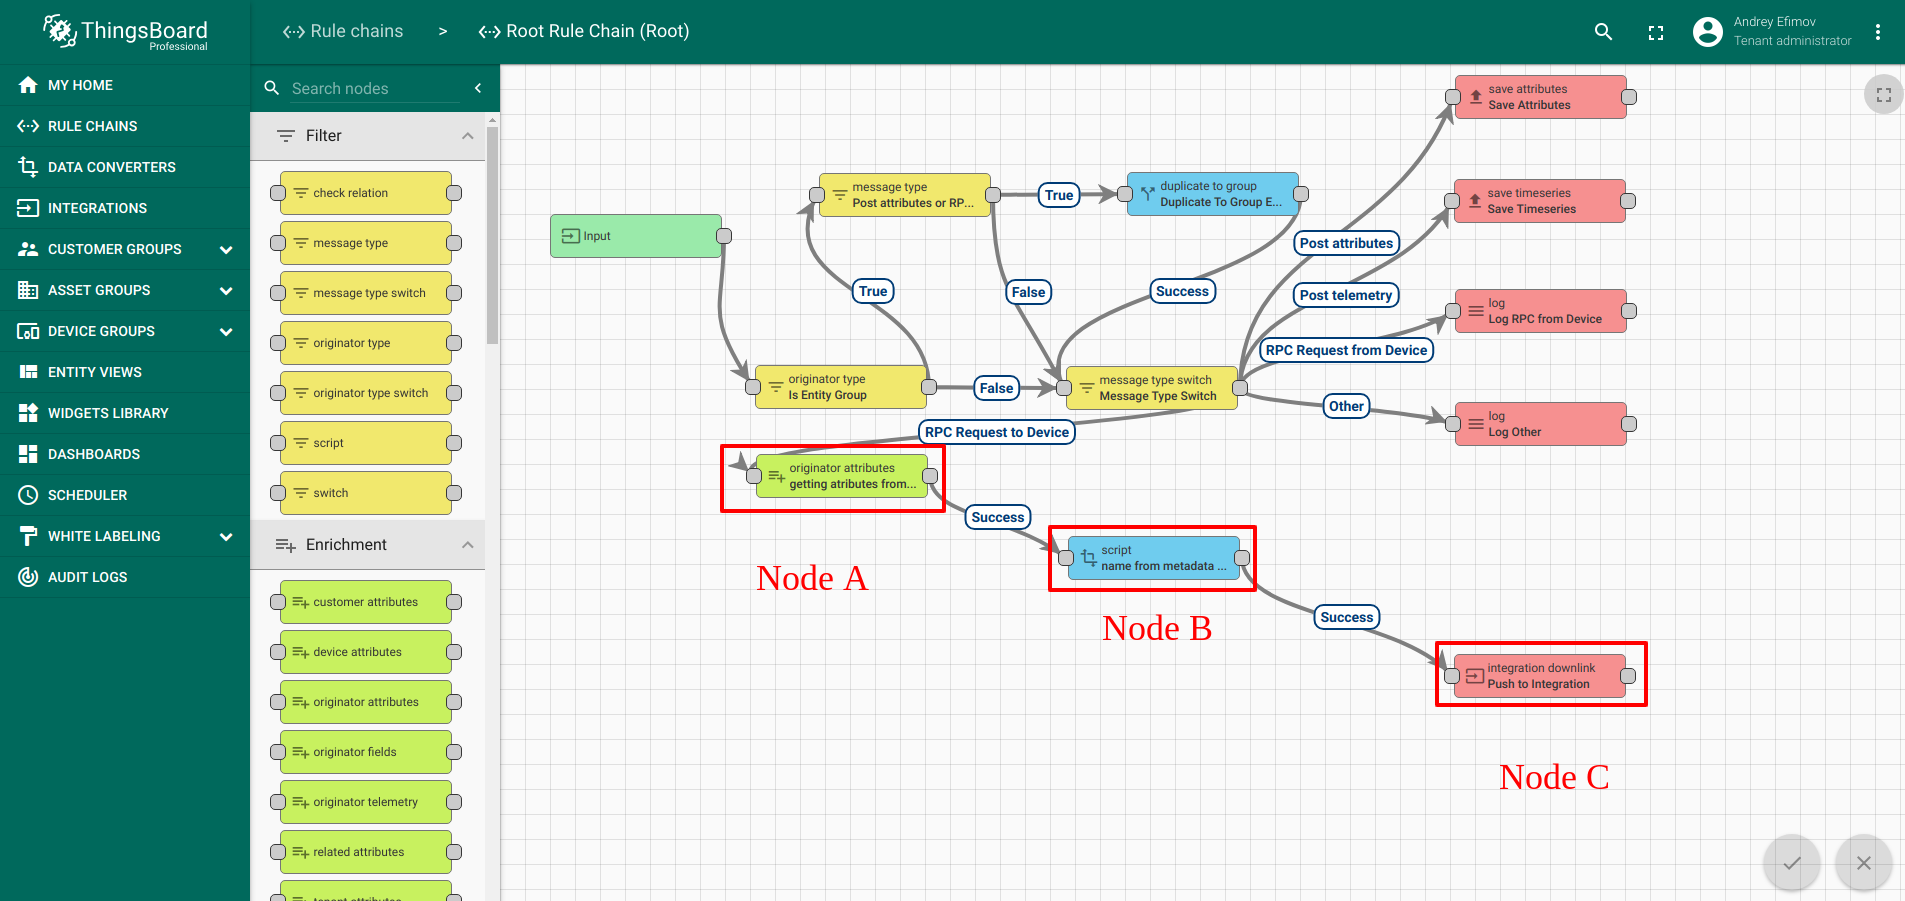
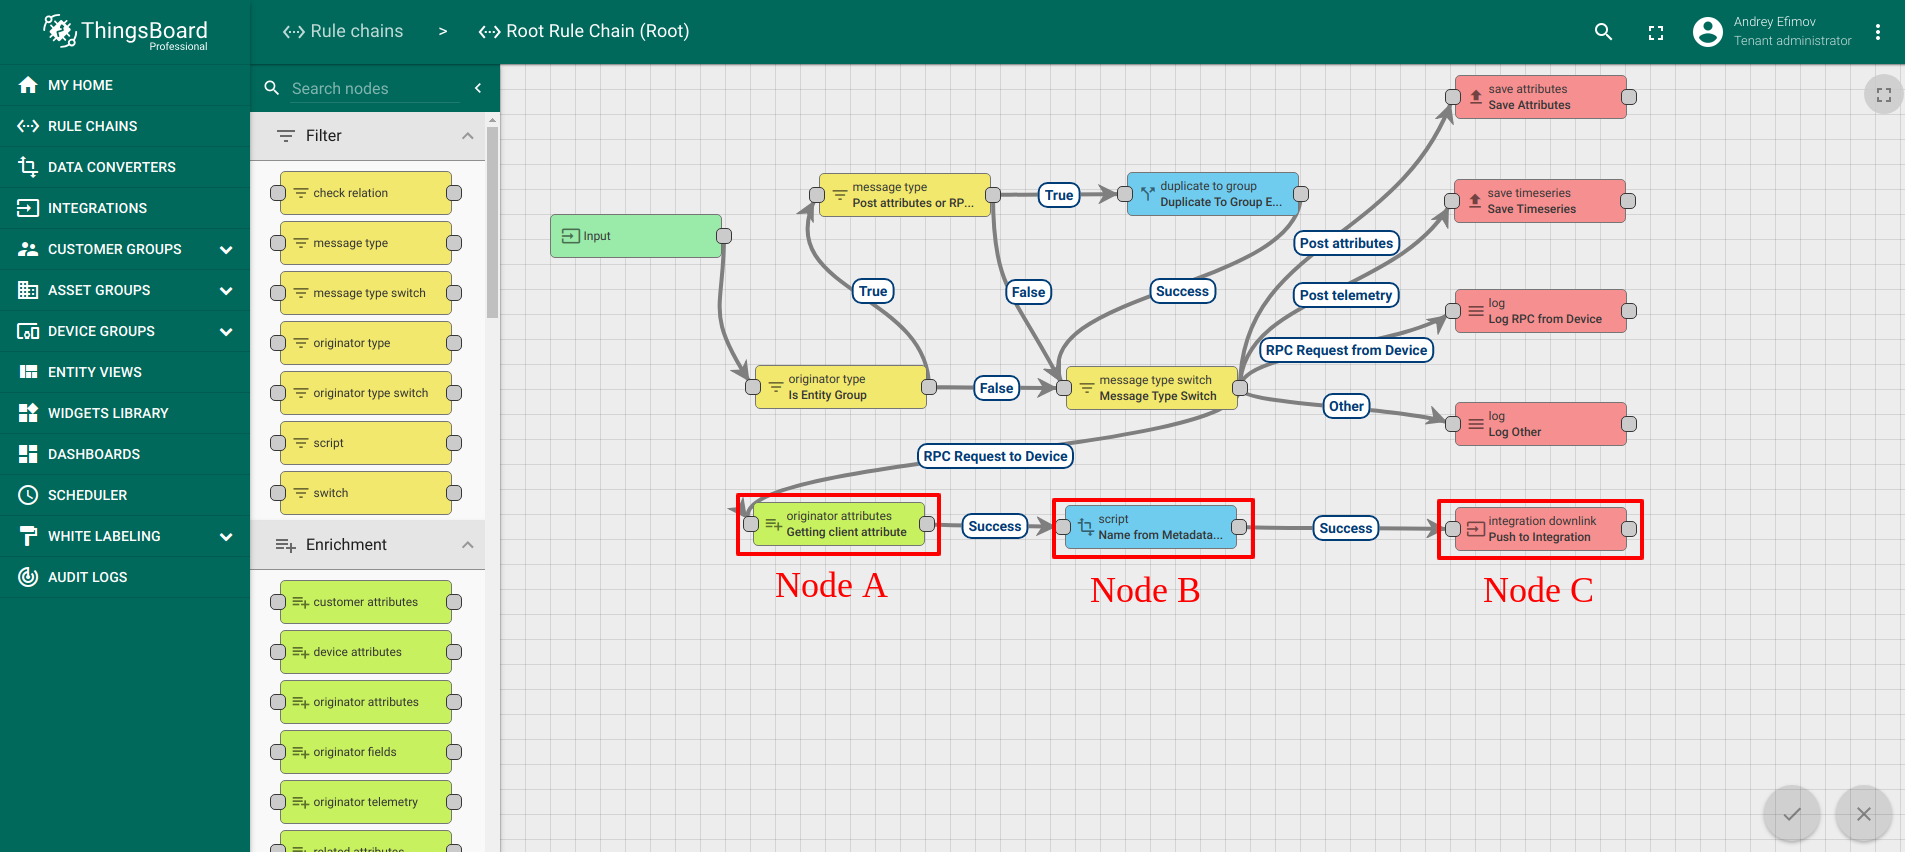
fixed alias and attribute

diff --git a/docs/user-guide/integrations/send-data-external-mqtt-brokers.md b/docs/user-guide/integrations/send-data-external-mqtt-brokers.md
@@ -57,14 +57,14 @@ Uplink converter should look like this:
 
 ![image](/images/user-guide/rule-engine-2-0/tutorials/mqtt-downlink/mqtt-downlink-uplink-converter.png) 
 
-The full source code of javascript function used in converter is available
+The full source code of JSON converter used in converter is available
  [**here**](/docs/user-guide/resources/mqtt-downlink-uplink-converter.js). 
 
 Downlink converter should look like this:
 
 ![image](/images/user-guide/rule-engine-2-0/tutorials/mqtt-downlink/mqtt-downlink-downlink-converter.png)
 
-The full source code of javascript function used in converter is available
+The full source code of JSON converter used in converter is available
  [**here**](/docs/user-guide/resources/mqtt-downlink-downlink-converter.js).
 
 ### Creating integration
@@ -77,8 +77,8 @@ Integration should look like this:
 
 ### Setting up dashboard
 
-Download and import attached json [**file**](/docs/user-guide/resources/temperature_control_dashboard.json) 
-with a dashboard for this tutorial.
+Download and [**import**](docs/user-guide/ui/dashboards/#dashboard-import) attached
+json [**file**](/docs/user-guide/resources/temperature_control_dashboard.json) with a dashboard for this tutorial.
 
 ### Turning on virtual device
 
@@ -92,7 +92,6 @@ node -v
 npm list mqtt
 #should be ran in folder with node-modules, will display npm mqtt module version
 ```
-
 
 If you don't have npm, you can install it from  [here](https://www.npmjs.com/package/npm),
 npm mqtt module with following command:
@@ -127,11 +126,11 @@ In this section, we explain the purpose of each node in this tutorial.
 
 ### Modifying rule chain
 
-![image](/images/user-guide/rule-engine-2-0/tutorials/mqtt-downlink/mqtt-downlink-root-rule-chain.png)
+![image](/images/user-guide/rule-engine-2-0/tutorials/mqtt-downlink/mqtt-downlink-root-rule-chain.png) 
 
   * **Node A**: Originator attributes enrichment node
       
-    * Puts server attribute deviceName into metadata
+    * Puts client attribute deviceName into metadata
     
    ![image](/images/user-guide/rule-engine-2-0/tutorials/mqtt-downlink/mqtt-downlink-node-A.png) 
     
@@ -147,8 +146,8 @@ In this section, we explain the purpose of each node in this tutorial.
     
    ! ![image](/images/user-guide/rule-engine-2-0/tutorials/mqtt-downlink/mqtt-downlink-node-C.png) 
 
-You can download and import attached json [**file**](/docs/user-guide/resources/mqtt-downlink-root-rule-chain.json) 
-with a rule chain for this tutorial.
+You can download and [**import**](/docs/user-guide/ui/rule-chains/#rule-chains-importexport) attached
+ json [**file**](/docs/user-guide/resources/mqtt-downlink-root-rule-chain.json) with a rule chain for this tutorial.
 
     
 
